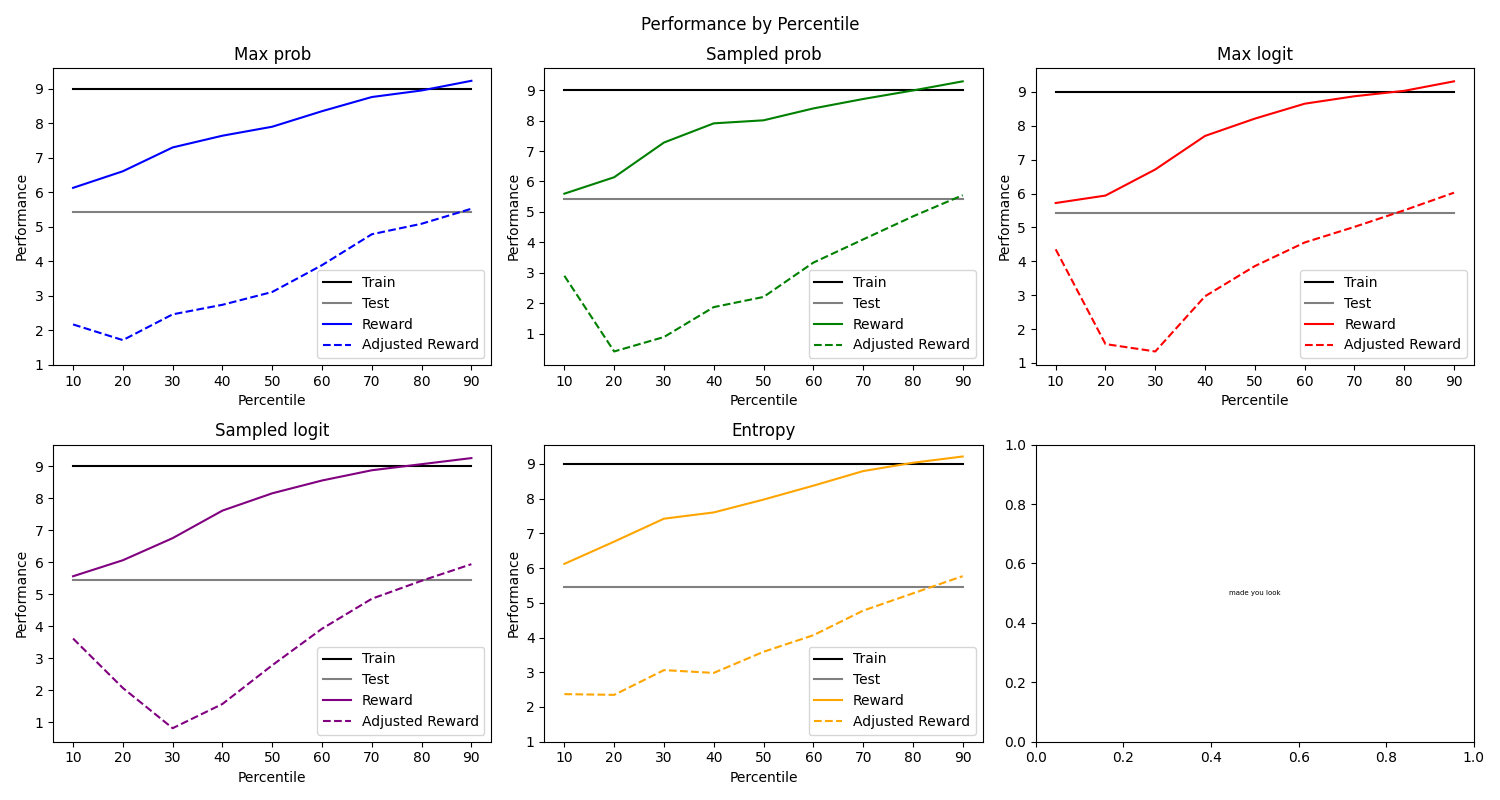
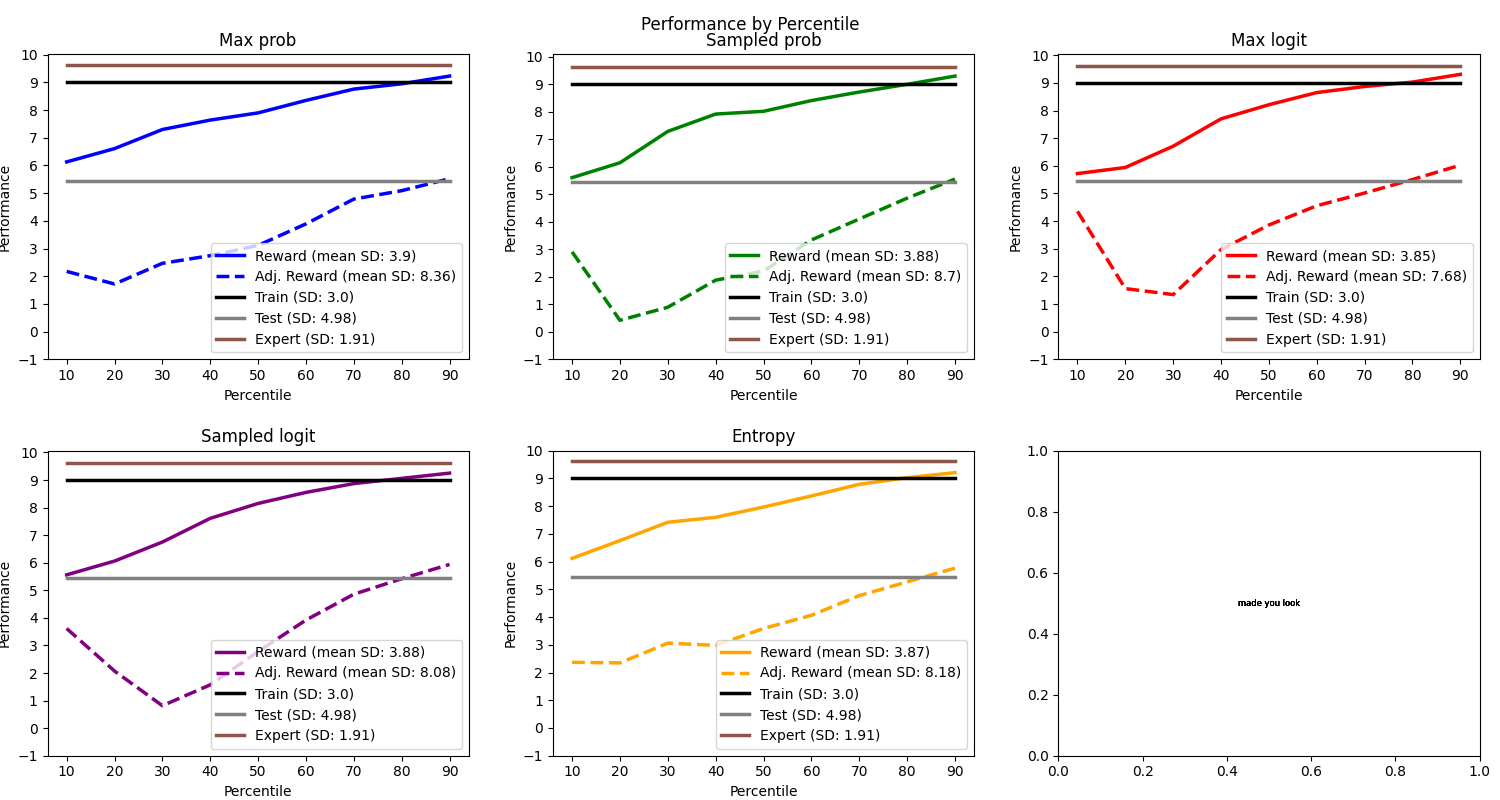
receive help plots

diff --git a/plot_ask_for_help_plots.py b/plot_ask_for_help_plots.py
@@ -1,0 +1,199 @@
+import matplotlib.pyplot as plt
+import os
+import numpy as np
+import ast
+import argparse
+import re
+
+
+PLOT_PERF_VS_PERC = 1
+PLOT_PROP_VS_PERC = 2
+PLOT_PERF_VS_PROP = 3
+PLOT_COST_BREAKEVEN = 4
+
+
+parser = argparse.ArgumentParser()
+parser.add_argument("--plots", "-p", type = int, nargs = "+", default = [1, 2, 3, 4])
+args = parser.parse_args()
+
+
+def get_mean_and_std(arr):
+    assert isinstance(arr[0], int) or isinstance(arr[0], float), "Whoopsie"
+    return np.mean(arr), np.std(arr)
+
+def get_mean_and_std_nested(nested_arr):
+    assert isinstance(nested_arr[0], list) or isinstance(nested_arr[0], np.array), "Oh no"
+    means, stds = [], []
+    for arr in nested_arr:
+        mean, std = get_mean_and_std(arr)
+        means.append(mean)
+        stds.append(std)
+    return np.array(means), np.array(stds)
+
+def inf_list_eval(list_str):
+    list_str = list_str.replace("inf", "'__inf__'")
+    parsed_list = ast.literal_eval(list_str)
+    parsed_list = [float("inf") if x == "__inf__" else x for x in parsed_list]
+    return parsed_list
+
+
+quant_eval_file_name = "AAA_quant_eval_model_200015872.txt"
+colors = {"max prob": "blue", "sampled prob": "green", "max logit": "red", "sampled logit": "purple", "entropy": "orange"}
+helped_logs = {"max prob": {}, "sampled prob": {}, "max logit": {}, "sampled logit": {}, "entropy": {}}
+log_dir = "logs/procgen/coinrun_aisc"
+for exp_dir in os.listdir(log_dir):
+    if exp_dir.startswith("receive"):
+        perc = int(exp_dir.split("_")[-1])
+        if "ent" in exp_dir:
+            log_key = "entropy"
+        elif "max" in exp_dir:
+            log_key = "max prob" if "prob" in exp_dir else "max logit"
+        else:
+            log_key = "sampled prob" if "prob" in exp_dir else "sampled logit"
+        render_logs = os.listdir(os.path.join(log_dir, exp_dir))
+        helped_logs[log_key][perc] = os.path.join(log_dir, exp_dir, sorted(render_logs)[-1])  # always get last/most updated one
+
+
+if PLOT_PERF_VS_PERC in args.plots:
+    # Weak agent in train environment
+    with open(os.path.join("logs/procgen/coinrun/eval_train_og/RENDER_seed_8888_06-17-2024_18-10-21", quant_eval_file_name), "r") as f:
+        evaluation = f.readlines()
+        for line in evaluation:
+            if "all rewards" in line.lower():
+                train_performance = eval(line[len("all rewards: "):].strip())
+                break
+    train_perf_mean, train_perf_std = get_mean_and_std(train_performance)
+    # Weak agent in test environment
+    # any help_test_* one is fine for test performance
+    with open(os.path.join("logs/procgen/coinrun_aisc/help_test_ent_og/RENDER_seed_8888_06-10-2024_20-50-28", quant_eval_file_name), "r") as f:
+        evaluation = f.readlines()
+        for line in evaluation:
+            if "all rewards" in line.lower():
+                test_performance = eval(line[len("all rewards: "):].strip())
+                break
+    test_perf_mean, test_perf_std = get_mean_and_std(test_performance)
+    # Expert in test environment
+    with open(os.path.join("logs/procgen/coinrun_aisc/expert/RENDER_seed_8888_06-21-2024_08-05-09", quant_eval_file_name), "r") as f:
+        evaluation = f.readlines()
+        for line in evaluation:
+            if "all rewards" in line.lower():
+                expert_performance = eval(line[len("all rewards: "):].strip())
+                break
+    expert_perf_mean, expert_perf_std = get_mean_and_std(expert_performance)
+
+
+percentiles = range(10, 91, 10)
+if PLOT_PERF_VS_PERC in args.plots:
+    fig1, axes1 = plt.subplots(2, 3, figsize = (15, 8))
+if PLOT_PROP_VS_PERC in args.plots:
+    fig2, axes2 = plt.subplots(2, 3, figsize = (15, 8))
+if PLOT_PERF_VS_PROP in args.plots:
+    fig3, axes3 = plt.subplots(2, 3, figsize = (15, 8))
+
+i = 0
+mega_mean_timestep_achieved = []
+for metric in helped_logs:
+    rew_by_perc = []
+    adj_rew_by_perc = []
+    help_props_by_perc = []
+    for perc in percentiles:
+        with open(os.path.join(helped_logs[metric][perc], quant_eval_file_name), "r") as f:
+            evaluation = f.readlines()
+        for line in evaluation:
+            if PLOT_PERF_VS_PERC in args.plots or PLOT_PERF_VS_PROP in args.plots:
+                if "all rewards" in line.lower():
+                    rew_by_perc.append(eval(line[len("all rewards: "):].strip()))
+                if "all adjusted rewards" in line.lower():
+                    adj_rew_by_perc.append(eval(line[len("all adjusted rewards: "):].strip()))
+            if PLOT_PERF_VS_PROP in args.plots or PLOT_PROP_VS_PERC in args.plots:
+                if "help times" in line.lower():
+                    help_times = eval(evaluation[-1])
+                    help_props = []
+                    for helps in help_times:
+                        help_props.append(sum(helps) / len(helps))
+                    help_props_by_perc.append(help_props)
+            if "mean timestep achieved" in line.lower():
+                mega_mean_timestep_achieved.append(int(re.search(r"(\d+)", line).group(1)))
+    
+    # 1: Plotting performance vs percentile
+    if PLOT_PERF_VS_PERC in args.plots:
+        ax = axes1[i // 3][i % 3]
+        rew_means, rew_stds = get_mean_and_std_nested(rew_by_perc)
+        adj_rew_means, adj_rew_stds = get_mean_and_std_nested(adj_rew_by_perc)
+        ax.plot(percentiles, rew_means, color = colors[metric], label = f"Reward (mean SD: {round(np.mean(rew_stds), 2)})", linewidth = 2.5)
+        # ax.fill_between(percentiles, rew_means - rew_stds, rew_means + rew_stds, color = colors[metric], alpha = 0.3)
+        ax.plot(percentiles, adj_rew_means, color = colors[metric], linestyle = "dashed", label = f"Adj. Reward (mean SD: {round(np.mean(adj_rew_stds), 2)})", linewidth = 2.5)
+        # ax.fill_between(percentiles, adj_rew_means - adj_rew_stds, adj_rew_means + adj_rew_stds, color = colors[metric], alpha = 0.3)
+        ax.plot(percentiles, [train_perf_mean] * len(percentiles), color = "black", label = f"Train (SD: {round(train_perf_std, 2)})", linewidth = 2.5)
+        # ax.fill_between(percentiles, [train_perf_mean - train_perf_std] * len(percentiles), [train_perf_mean + train_perf_std] * len(percentiles), color = "black", alpha = 0.3)
+        ax.plot(percentiles, [test_perf_mean] * len(percentiles), color = "gray", label = f"Test (SD: {round(test_perf_std, 2)})", linewidth = 2.5)
+        # ax.fill_between(percentiles, [test_perf_mean - test_perf_std] * len(percentiles), [test_perf_mean + test_perf_std] * len(percentiles), color = "gray", alpha = 0.3)
+        ax.plot(percentiles, [expert_perf_mean] * len(percentiles), color = "tab:brown", label = f"Expert (SD: {round(expert_perf_std, 2)})", linewidth = 2.5)
+        # ax.fill_between(percentiles, [expert_perf_mean - expert_perf_std] * len(percentiles), [expert_perf_mean + expert_perf_std] * len(percentiles), color = "brown", alpha = 0.3)
+        ax.set_title(metric.capitalize())
+        ax.set_xlabel("Percentile")
+        ax.set_ylabel("Performance")
+        ax.set_yticks(range(-1, 11))
+        ax.legend()
+        axes1[-1][-1].text(0.5, 0.5, "made you look", horizontalalignment = "center", verticalalignment = "center", transform = axes1[-1][-1].transAxes, fontsize = 6)
+        fig1.suptitle("Performance by Percentile")
+        fig1.tight_layout()
+        fig1.subplots_adjust(hspace = 0.3, wspace = 0.2)
+        fig1.savefig("receive_help_performance_by_percentile.png")
+        print("Done one plot of", PLOT_PERF_VS_PERC)
+
+    # 2: Plotting ask-for-help percentage vs percentile
+    if PLOT_PROP_VS_PERC in args.plots:
+        ax = axes2[i // 3][i % 3]
+        help_prop_means, help_prop_stds = get_mean_and_std_nested(help_props_by_perc)
+        ax.plot(percentiles, help_prop_means, color = colors[metric])
+        ax.fill_between(percentiles, help_prop_means - help_prop_stds, help_prop_means + help_prop_stds, color = colors[metric], alpha = 0.3)
+        ax.set_title(metric.capitalize())
+        ax.set_xlabel("Percentile")
+        ax.set_ylabel("Ask-For-Help Percentage")
+        ax.set_yticks(np.arange(0, 1.01, 0.1))
+        axes2[-1][-1].text(0.5, 0.5, "again?", horizontalalignment = "center", verticalalignment = "center", transform = axes2[-1][-1].transAxes, fontsize = 6)
+        fig2.suptitle("Ask-For-Help Percentage vs. Percentile")
+        fig2.tight_layout()
+        fig2.subplots_adjust(hspace = 0.3, wspace = 0.2)
+        fig2.savefig("receive_help_help_percentage_by_percentile.png")
+        print("Done one plot of", PLOT_PROP_VS_PERC)
+
+    # 3: Plotting performance vs ask-for-help percentage
+    if PLOT_PERF_VS_PROP in args.plots:
+        ax = axes3[i // 3][i % 3]
+        flattened_help_props = np.array([help_prop for help_props in help_props_by_perc for help_prop in help_props])
+        flattened_rews = np.array([rew for rews in rew_by_perc for rew in rews])
+        flattened_adj_rews = np.array([adj_rew for adj_rews in adj_rew_by_perc for adj_rew in adj_rews])
+        sorted_idx = np.argsort(flattened_help_props)
+        flattened_help_props = flattened_help_props[sorted_idx]
+        flattened_rews = flattened_rews[sorted_idx]
+        flattened_adj_rews = flattened_adj_rews[sorted_idx]
+        # ax.scatter(flattened_help_props, flattened_rews, color = colors[metric], label = f"Reward")
+        every = 5
+        ax.scatter(flattened_help_props[::every], flattened_adj_rews[::every], color = colors[metric], marker = "+", label = f"Adj. Reward")
+        ax.set_title(metric.capitalize())
+        ax.set_xlabel("Ask-For-Help Percentage")
+        ax.set_ylabel("Performance")
+        # ax.set_yticks(range(-10, 11))
+        ax.legend()
+        axes3[-1][-1].text(0.5, 0.5, "( ͡° ͜ʖ ͡°)", horizontalalignment = "center", verticalalignment = "center", transform = axes3[-1][-1].transAxes, fontsize = 5)
+        fig3.suptitle("Performance vs. Ask-For-Help Percentage")
+        fig3.tight_layout()
+        fig3.subplots_adjust(hspace = 0.3, wspace = 0.2)
+        fig3.savefig("receive_help_performance_by_help_percentage.png")
+        print("Done one plot of", PLOT_PERF_VS_PROP)
+
+    i += 1
+
+if PLOT_COST_BREAKEVEN in args.plots:
+    mega_mean_timestep_achieved = round(np.mean(mega_mean_timestep_achieved))
+    print(mega_mean_timestep_achieved)
+    breakeven_func = np.vectorize(lambda cost: 256 / (mega_mean_timestep_achieved * cost))
+    cost_range = np.arange(0.1, 5.01, 0.1)
+    plt.plot(cost_range, breakeven_func(cost_range))
+    plt.title("How often must agent ask for help to break even?")
+    plt.xlabel("Ask-For-Help Cost")
+    plt.ylabel("Ask-For-Help Percentage")
+    plt.savefig("ask_for_help_breakeven.png")
+    print("Done breakeven plot")
